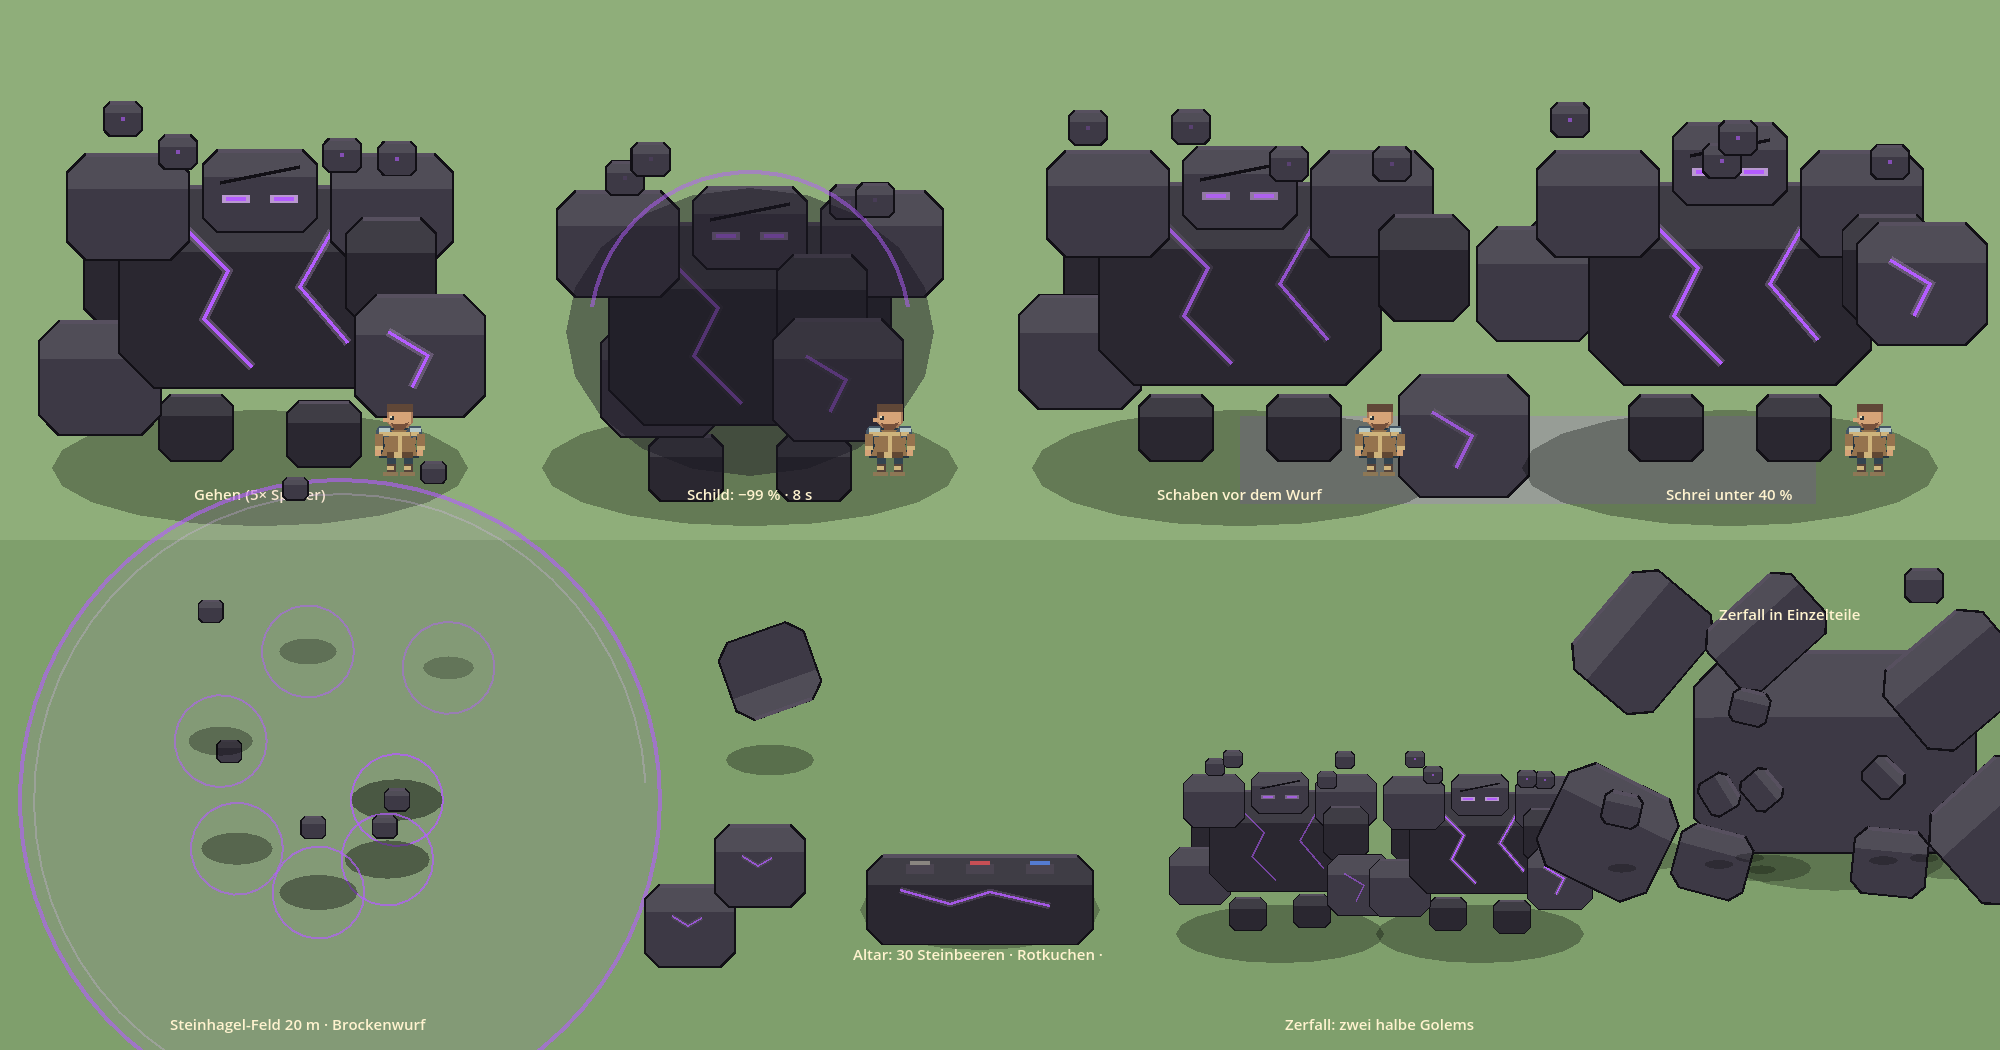
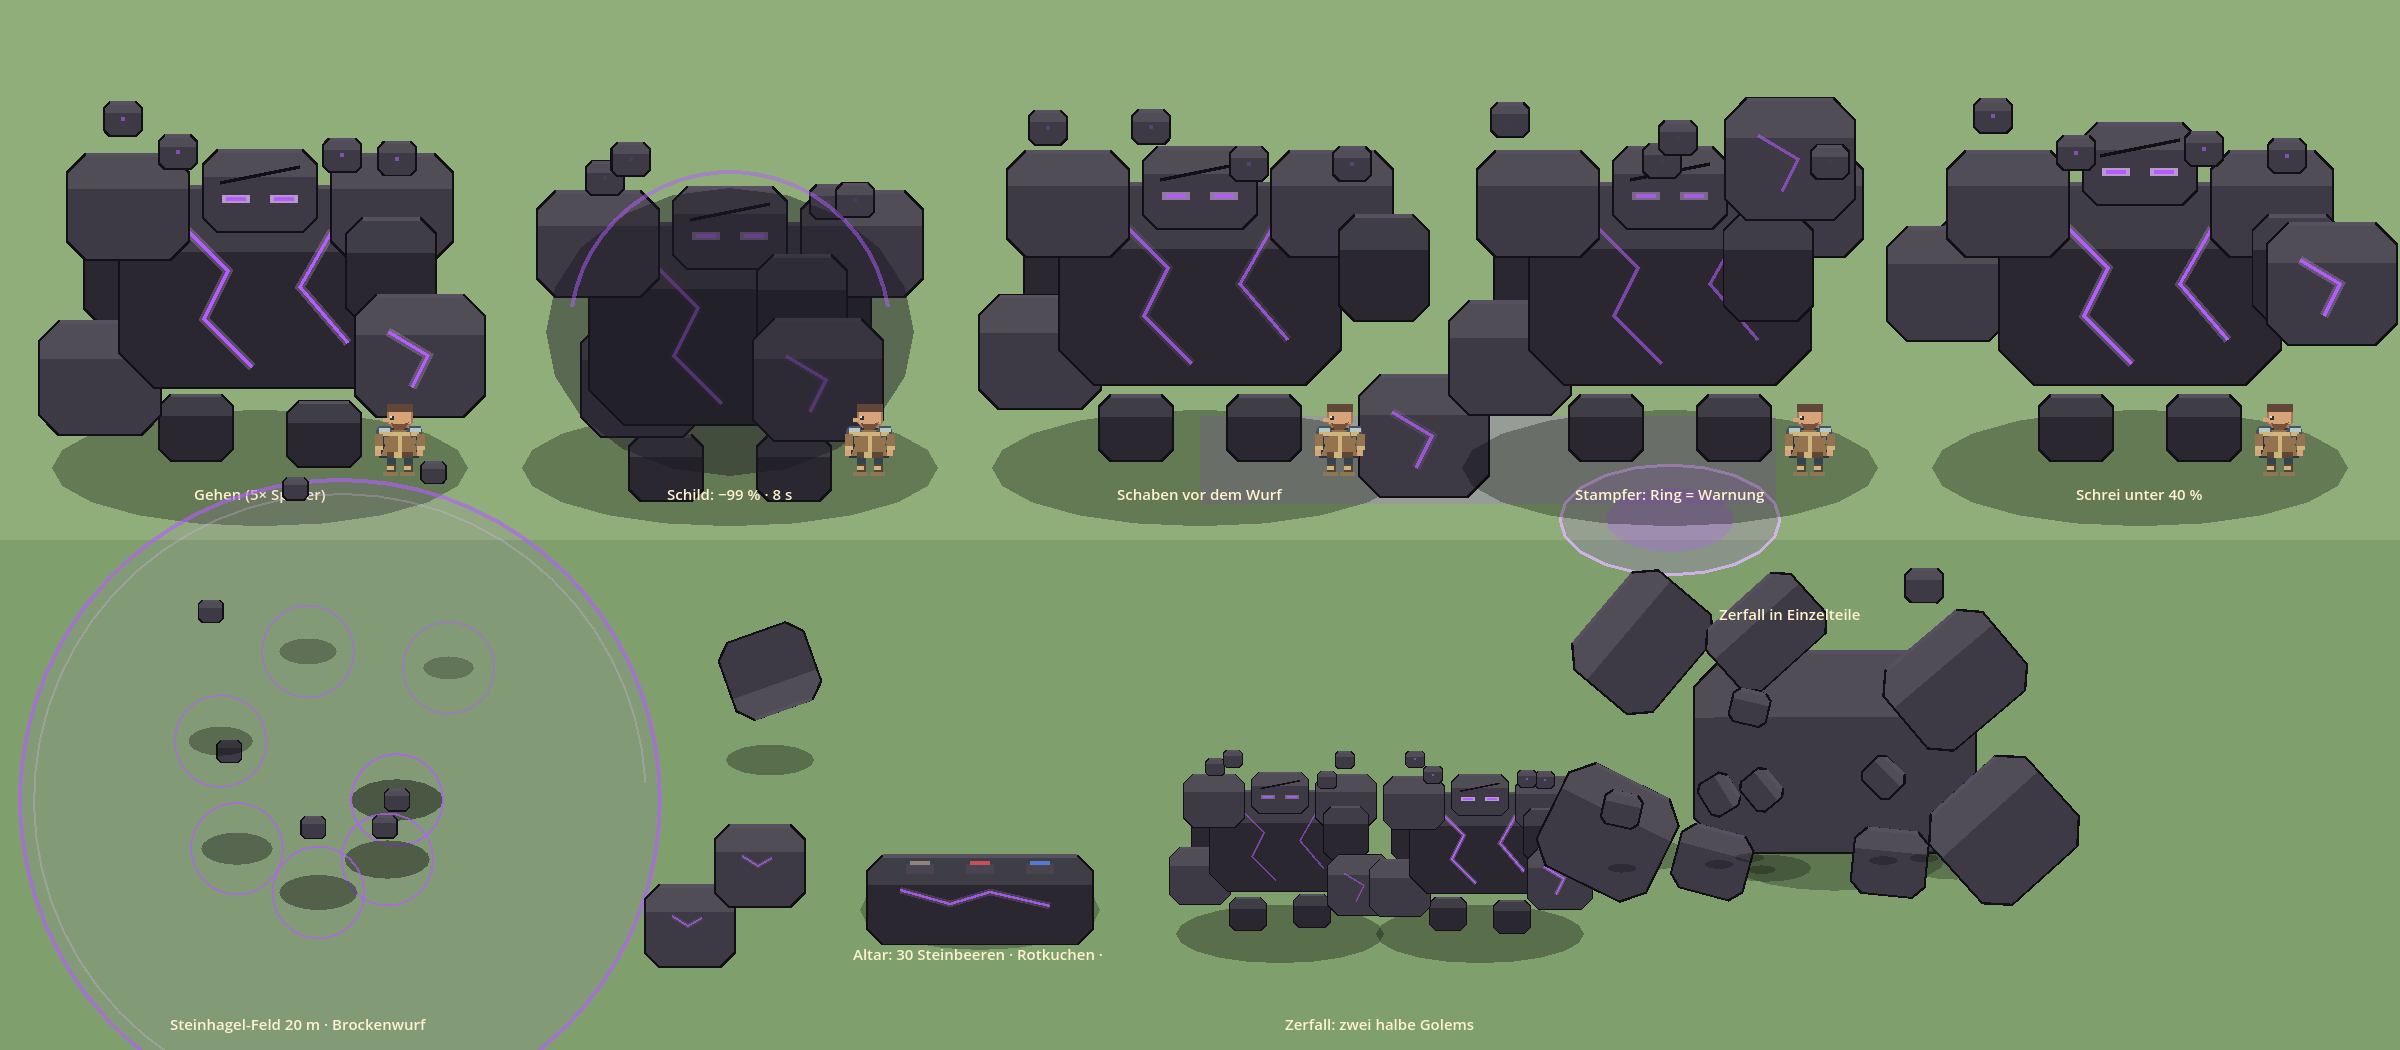
Telegraph the golem stomp with a ground ring, 4 s cooldown, and raise golem HP by 20%
Claude-Session: https://claude.ai/code/session_01NMLpC13w6qJyrT26Dv1b78

diff --git a/docs/konzepte/2026-10-10-golem/UMSETZUNG.md b/docs/konzepte/2026-10-10-golem/UMSETZUNG.md
@@ -23,8 +23,9 @@ Vorschau: `golem.png` (erzeugt mit `tools/capture_dark_golem.gd`).
 
 ## Werte (Balance, zum Nachjustieren)
 
-- Leben: 6000 × Stufenfaktor (Stufe 40 → ×5,6 ≈ 33.600), je weiterem Spieler +70 %. Hälften je die Hälfte.
-- Schaden: Grundschaden `enemy_damage(27)` ≈ 233; Stampfer ×1,3, Brocken ×1,0, Hagel ×0,3; Hälften ×0,5.
+- Leben: 7200 × Stufenfaktor (Stufe 40 → ×5,6 ≈ 40.300), je weiterem Spieler +70 %. Hälften je die Hälfte (≈ 20.200). Zu zweit zusammen ≈ 137.000.
+- Schaden: Grundschaden `enemy_damage(27)` ≈ 233; Stampfer ×0,85 (0,6 s Ansage mit Ring, 4 s Abklingzeit, ausweichbar), Brocken ×1,0, Hagel ×0,3; Hälften ×0,5.
+- Himmelsfalter: alle 8 s bis zu 3, höchstens 10 (bewusst schwer, Angelo 10.10.).
 - Alles in `components/golem_boss.gd` oben als Konstanten.
 
 ## Technik

diff --git a/CHANGELOG.md b/CHANGELOG.md
@@ -19,6 +19,9 @@ Neue Änderungen sollen ab jetzt in dieser Datei zusammengefasst werden. Detaild
   Beteiligte, `golem_world.json`). Golem ohne Rückstoß/Betäubung, Nahkampf
   rechnet seinen Körperradius ein. `server_action_allowed` blockt die erste
   Aktion kurz nach Serverstart nicht mehr.
+- Golem-Balance (Angelo 10.10.): Stampfer mit 0,6 s Ansage (Ring am Boden),
+  4 s Abklingzeit, Schaden ×0,85 statt ×1,3; Leben +20 % (7200/3600);
+  Himmelsfalter bleiben bei höchstens 10.
 - Legendäre Rüstungen: `components/master_armor.gd` (Daten, Wirkungen),
   Aussehen 6–12 in `rpg_hero.gd`, Torvald ab Stufe 40, Drops (Klassenbosse 10 %,
   Elite ab Stufe 33 2 %), Dornen/Lebensraub auf dem Server. Test
